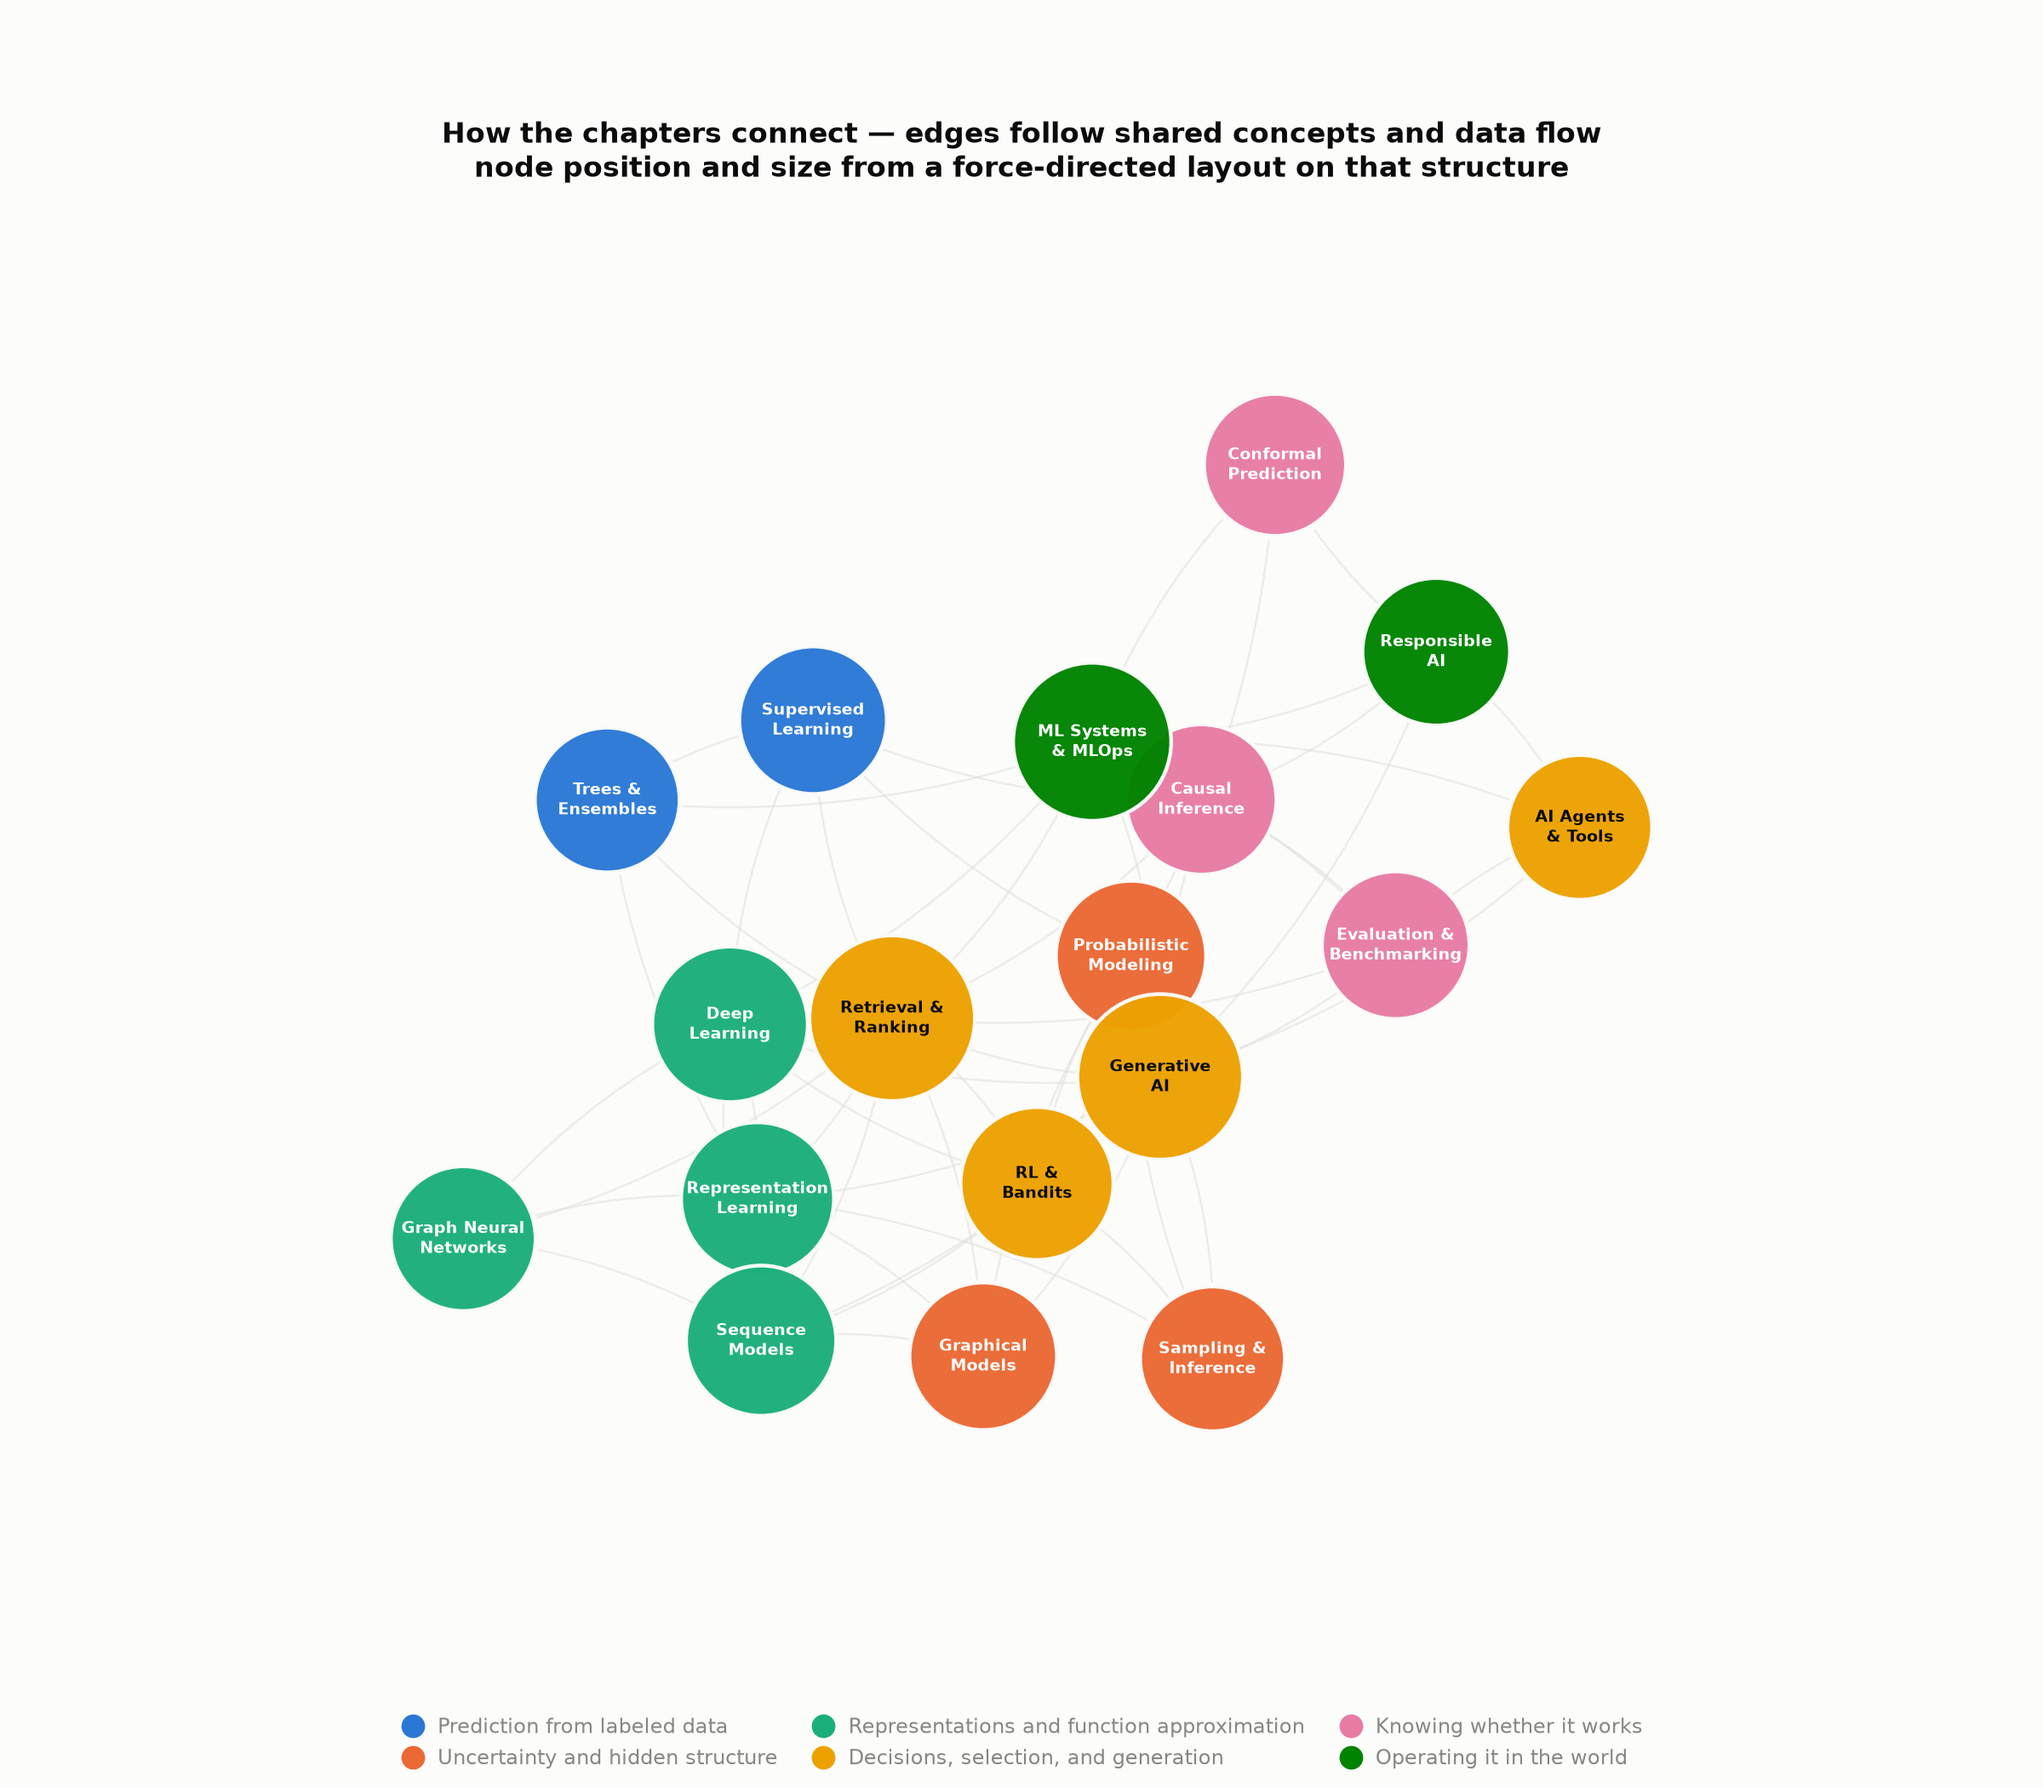
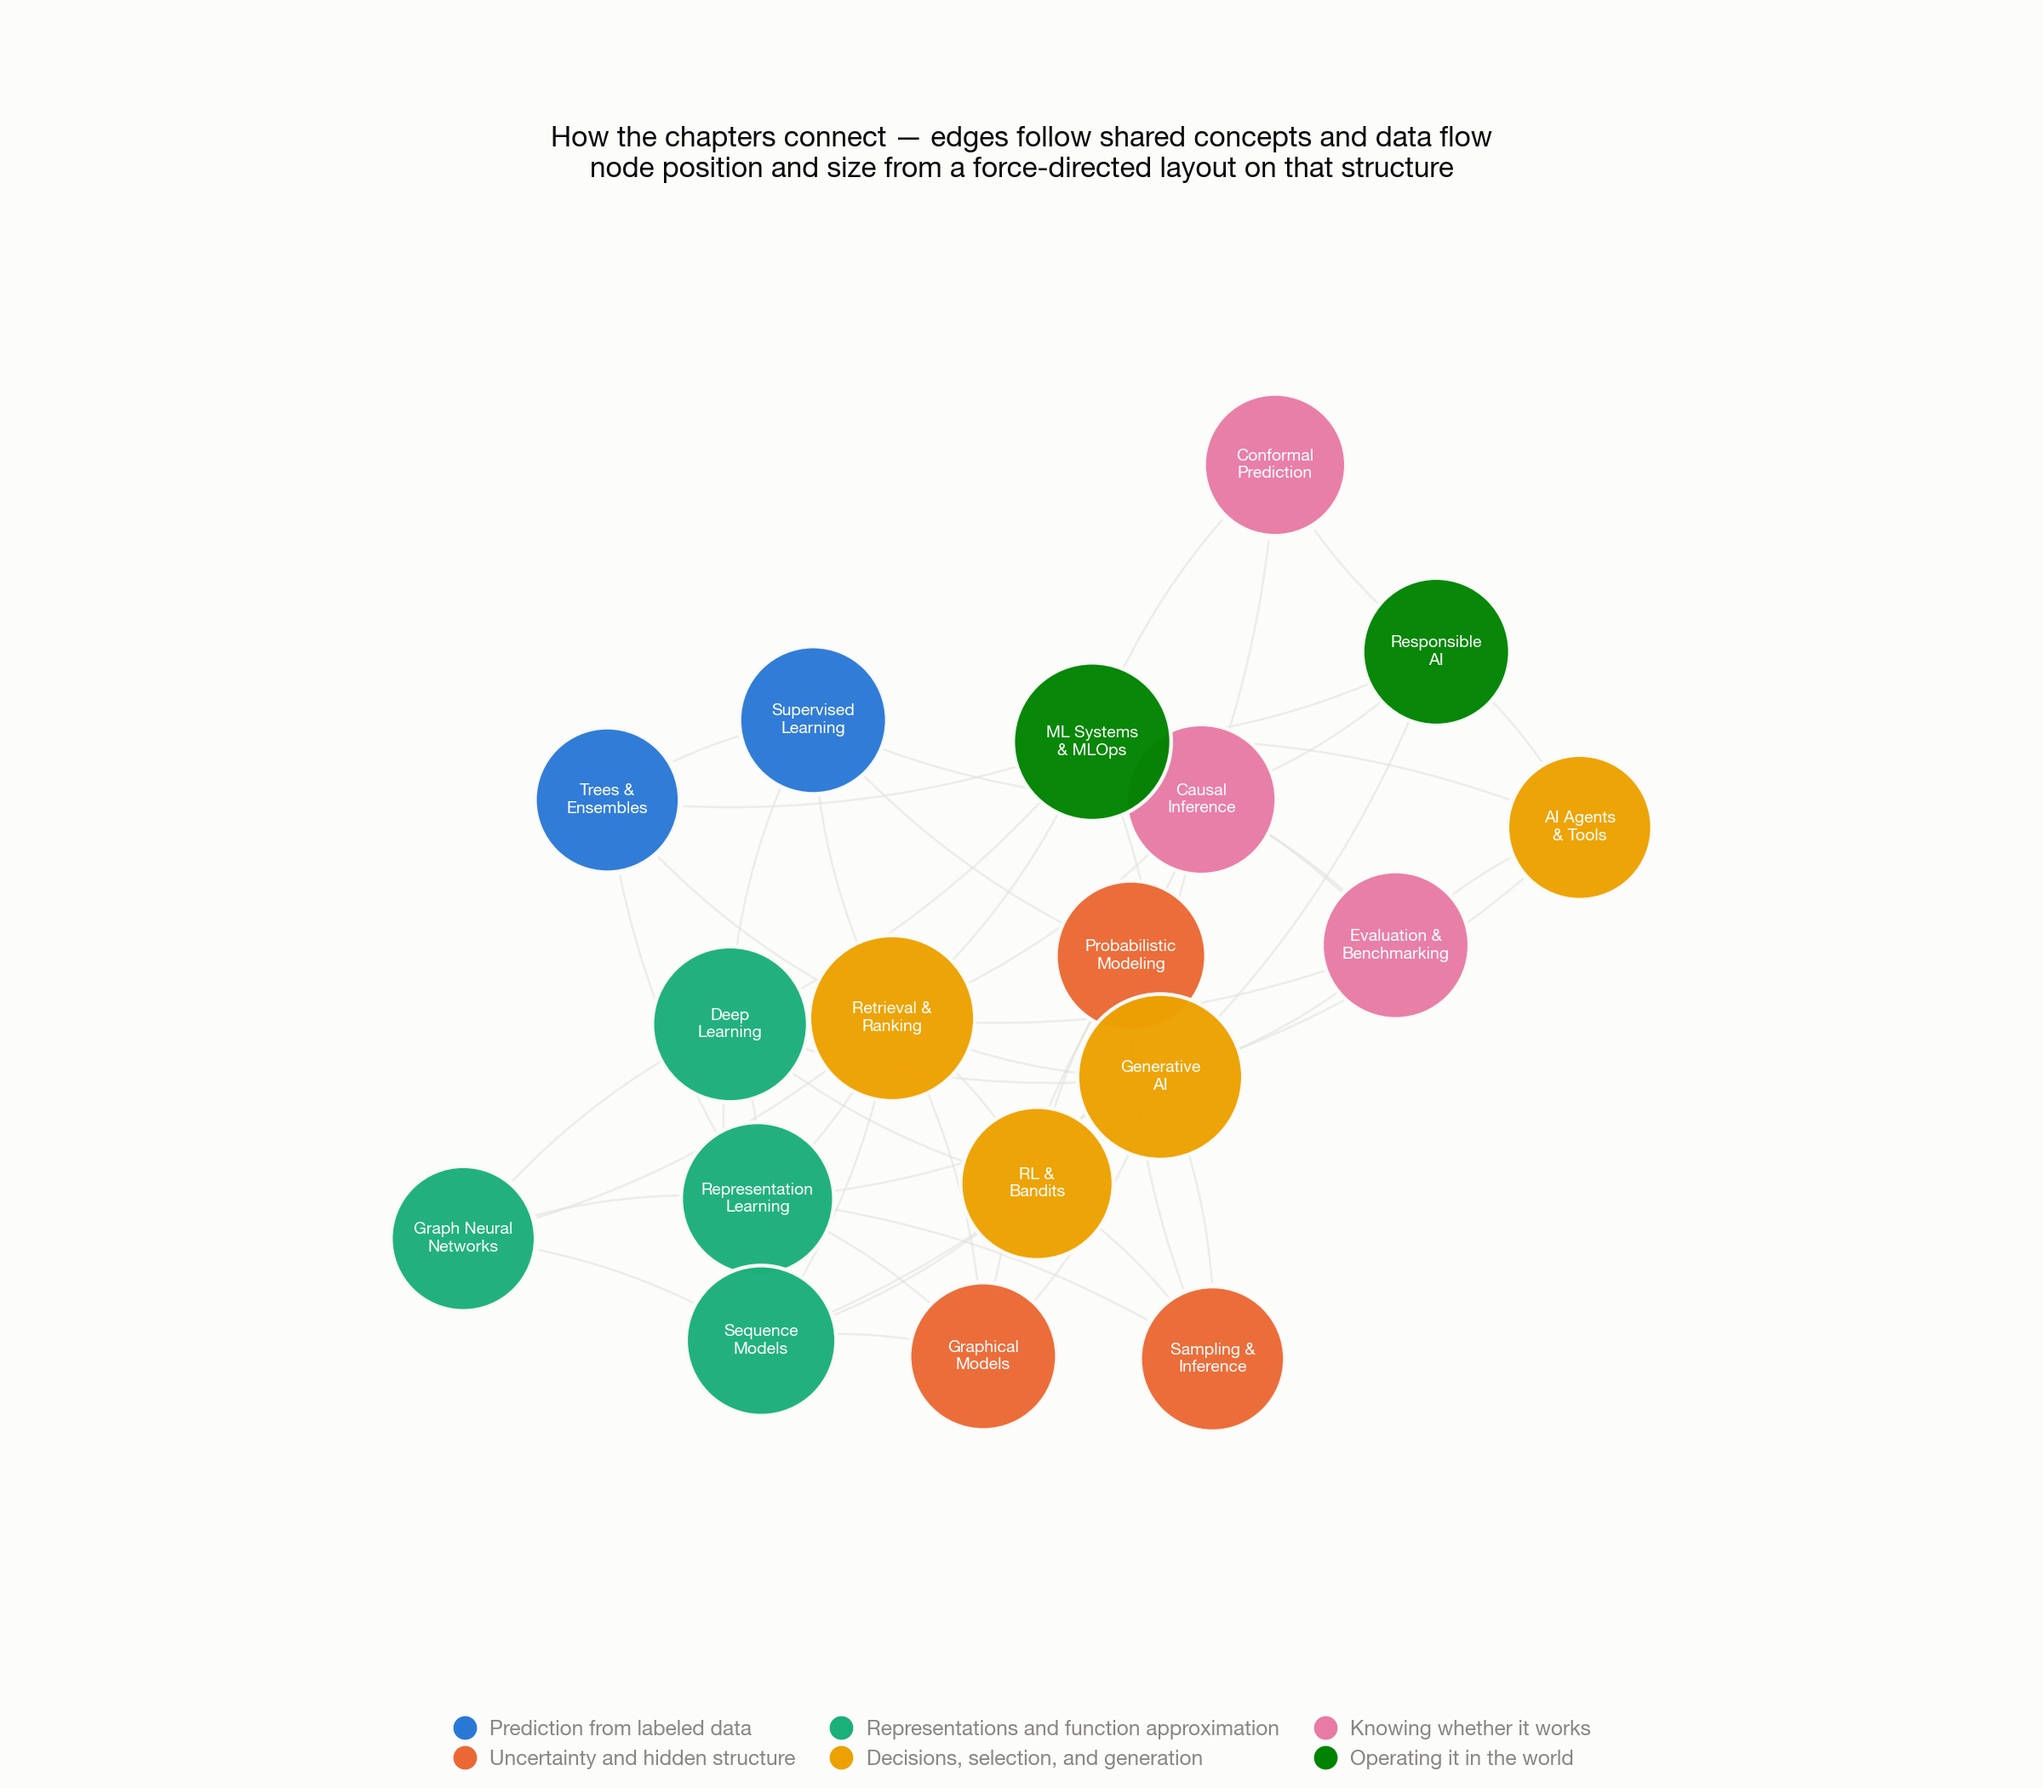
Use uniform white node text in both landscape graphs
Drop the dark-text-on-gold contrast branch in favor of plain white
labels on every node, per request.

Claude-Session: https://claude.ai/code/session_01VDEqUDptv4Pz6PMUetX2uY

diff --git a/scripts/figures/fig_social_preview.py b/scripts/figures/fig_social_preview.py
@@ -4,10 +4,10 @@ laid out for GitHub's social preview slot (1280x640) and link-preview crops
 doesn't fit without cropping into the legend or nodes.
 
 Reuses the exact same graph data, layout, and node styling as
-fig_landscape_network.py (curved edges, degree-scaled node size, dark text on
-the light gold nodes) so the repo has one consistent "mark" rather than two
-different visual identities — this is a reflow, not a redesign. Keep this in
-sync by hand if fig_landscape_network.py's styling changes again.
+fig_landscape_network.py (curved edges, degree-scaled node size) so the
+repo has one consistent "mark" rather than two different visual identities —
+this is a reflow, not a redesign. Keep this in sync by hand if
+fig_landscape_network.py's styling changes again.
 """
 
 import sys
@@ -15,7 +15,7 @@ from pathlib import Path
 
 sys.path.insert(0, str(Path(__file__).resolve().parent))
 from _theme import apply_theme, CATEGORICAL, INK, MUTED, GRIDLINE, SURFACE
-from fig_landscape_network import NODES, EDGES, PART_NAMES, LIGHT_PARTS
+from fig_landscape_network import NODES, EDGES, PART_NAMES
 
 import matplotlib.pyplot as plt
 import networkx as nx
@@ -76,13 +76,11 @@ def main() -> None:
             )
         )
 
-    for part_idx, text_color in ((idx, INK if idx in LIGHT_PARTS else "white")
-                                  for idx in range(len(PART_NAMES))):
-        labels = {n: d["label"] for n, d in g.nodes(data=True) if d["part"] == part_idx}
-        nx.draw_networkx_labels(
-            g, pos, labels=labels, ax=ax, font_size=5.8, font_color=text_color,
-            font_weight="bold", verticalalignment="center",
-        )
+    labels = {n: d["label"] for n, d in g.nodes(data=True)}
+    nx.draw_networkx_labels(
+        g, pos, labels=labels, ax=ax, font_size=5.8, font_color="white",
+        font_weight="bold", verticalalignment="center",
+    )
 
     fig.text(
         0.02, 0.965, "Modern AI Systems and Methods",

diff --git a/scripts/figures/fig_landscape_network.py b/scripts/figures/fig_landscape_network.py
@@ -71,11 +71,6 @@ PART_NAMES = [
 ]
 
 
-# Light node colors read poorly with white text; use dark ink text on these
-# part colors instead so every label stays legible.
-LIGHT_PARTS = {3}  # "Decisions, selection, and generation" (gold, CATEGORICAL[3])
-
-
 def main() -> None:
     apply_theme()
 
@@ -140,13 +135,11 @@ def main() -> None:
             )
         )
 
-    for part_idx, text_color in ((idx, INK if idx in LIGHT_PARTS else "white")
-                                  for idx in range(len(PART_NAMES))):
-        labels = {n: d["label"] for n, d in g.nodes(data=True) if d["part"] == part_idx}
-        nx.draw_networkx_labels(
-            g, pos, labels=labels, ax=ax, font_size=7.0, font_color=text_color,
-            font_weight="bold", verticalalignment="center",
-        )
+    labels = {n: d["label"] for n, d in g.nodes(data=True)}
+    nx.draw_networkx_labels(
+        g, pos, labels=labels, ax=ax, font_size=7.0, font_color="white",
+        font_weight="bold", verticalalignment="center",
+    )
 
     ax.set_title(
         "How the chapters connect — edges follow shared concepts and data flow\n"
